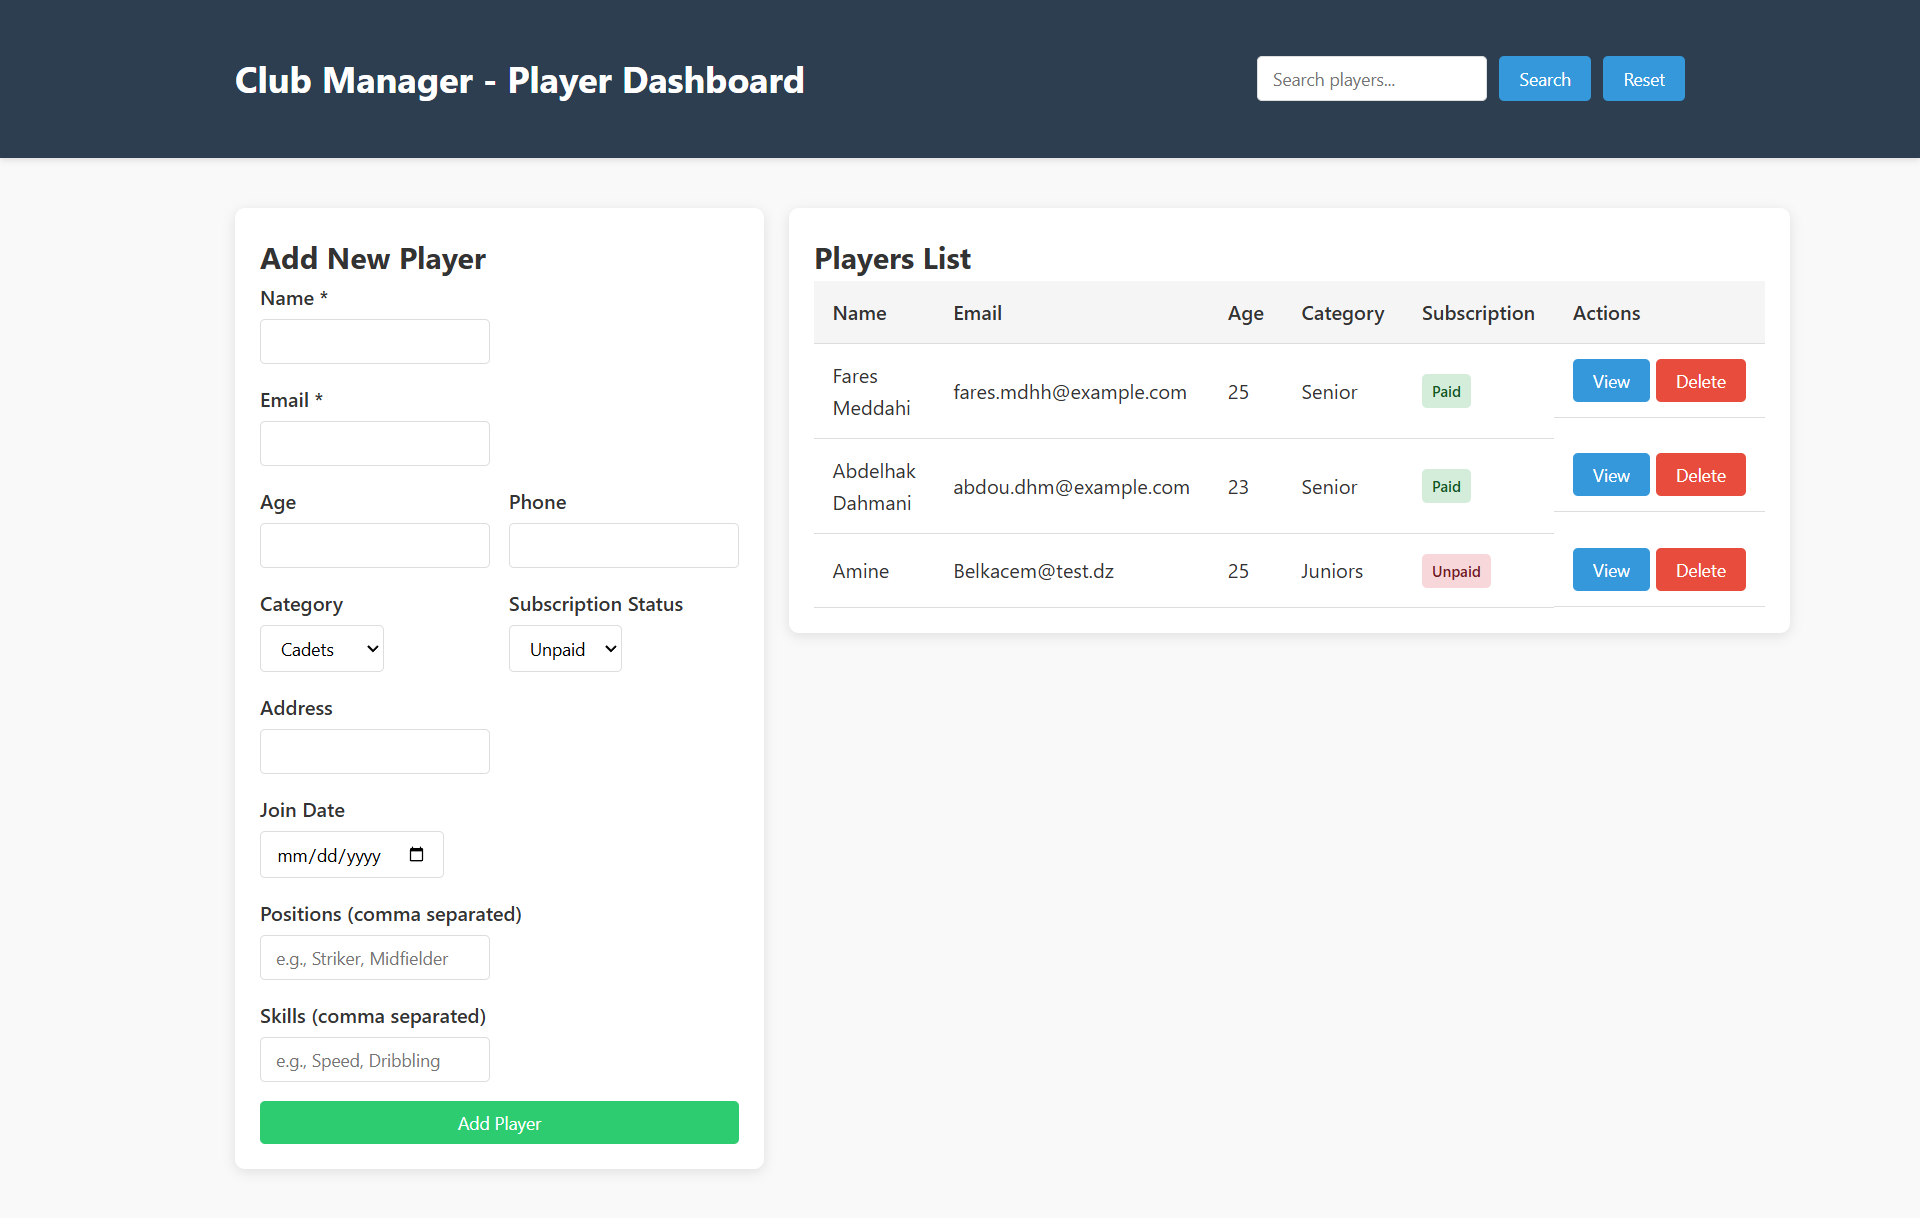
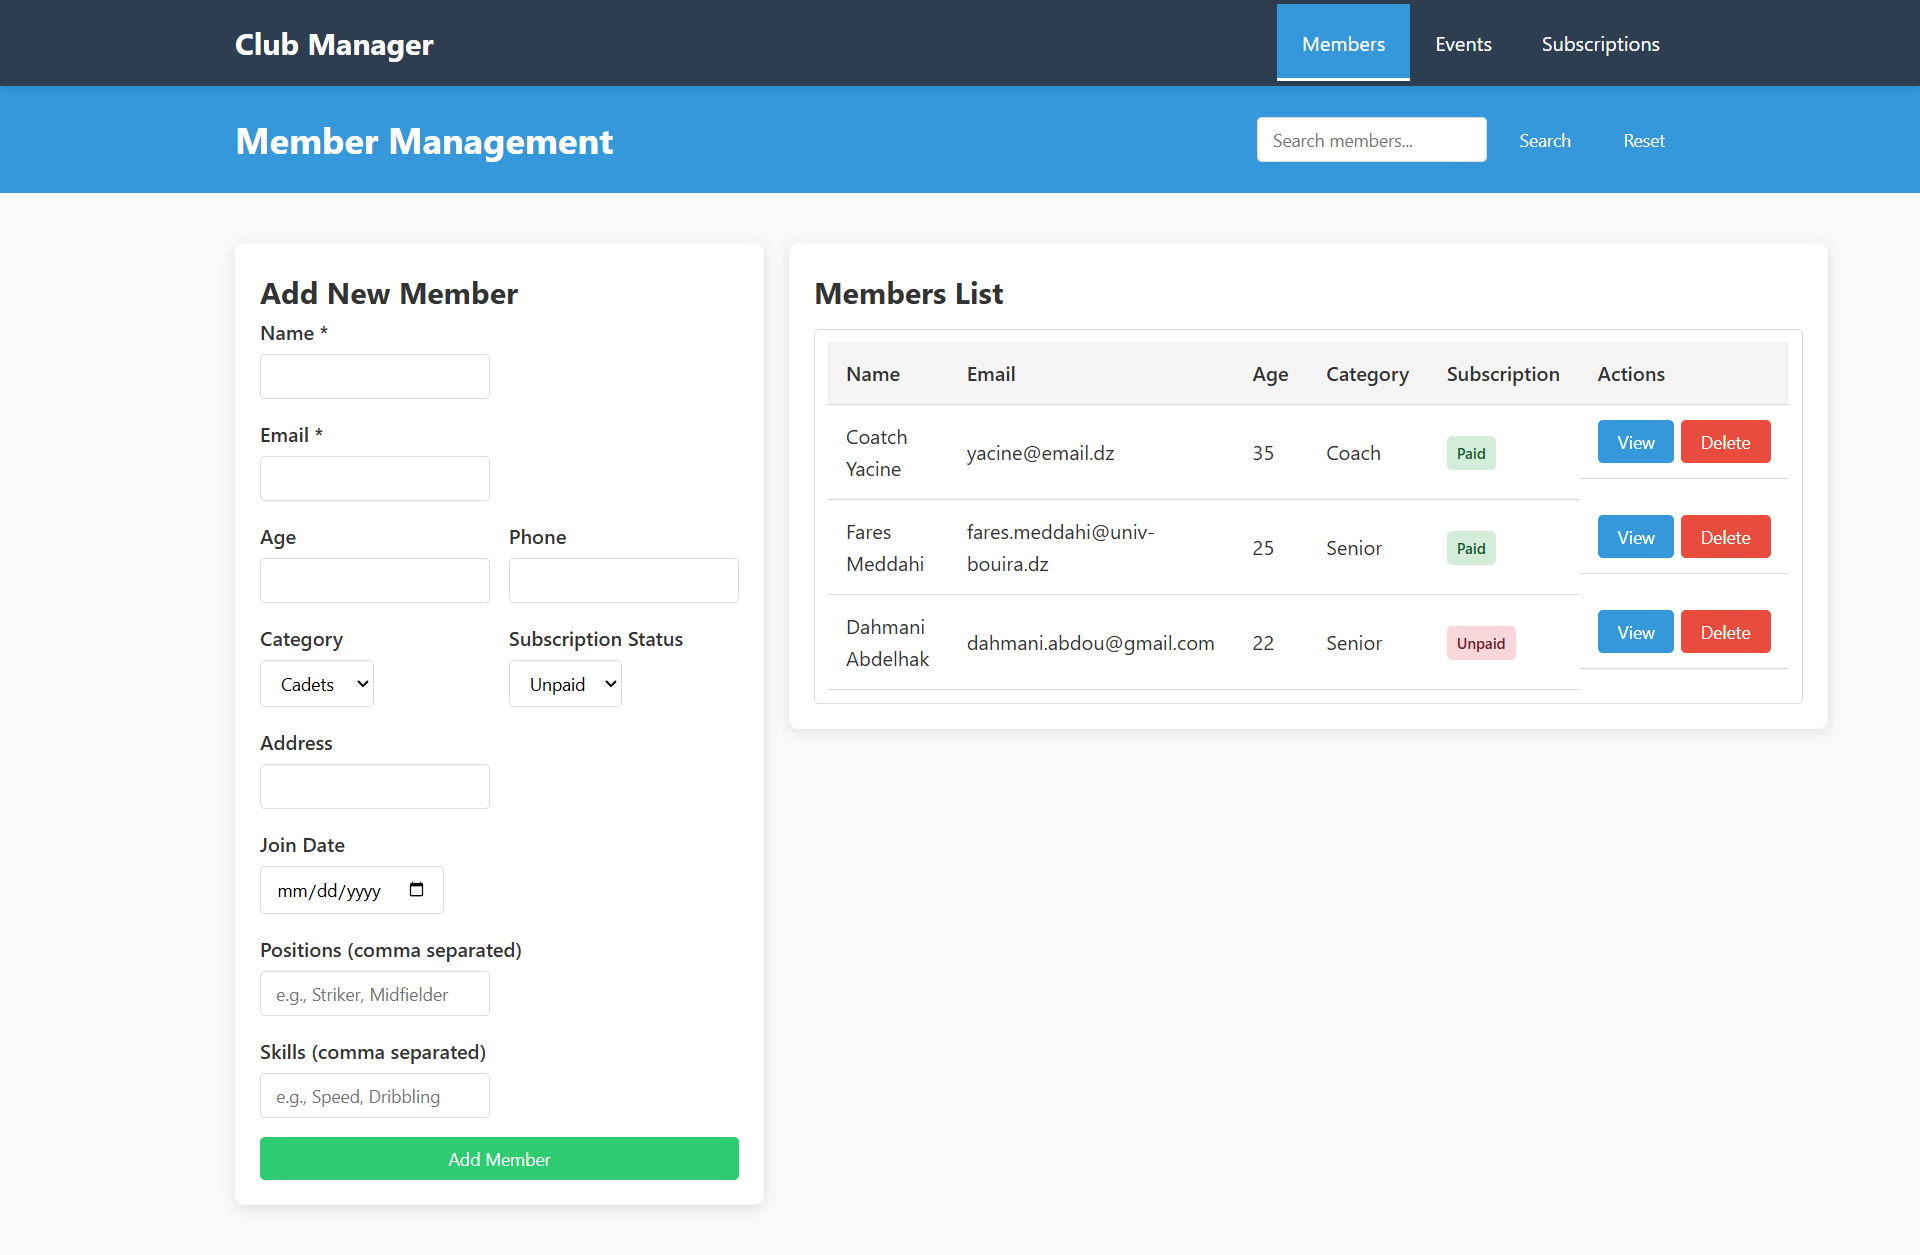
Finishing README.md

diff --git a/views/style.css b/views/style.css
@@ -308,7 +308,6 @@ tr:hover {
 }
 
 .player-list, .player-details-list {
-    max-height: 200px;
     overflow-y: auto;
     border: 1px solid var(--border-color);
     border-radius: 4px;

diff --git a/README.md b/README.md
@@ -2,7 +2,20 @@
 
 This project is a **Football Club Management System** built using the **MVC (Model-View-Controller)** architecture. It provides a REST API for managing players only **(for now)** and allows interaction through a simple HTML dashboard.
 
+## Dashboard
+The dashboard is now separated into 03 HTML files and one CSS style file :
+* `views/style.css` - defining dashboard style
+* `views/members.html` – for members management
+
 <img src="views/img.png"/>
+
+* `views/events.html` – for events management
+
+<img src="views/img2.png"/>
+
+* `views/subscriptions.html` – for subscriptions management
+
+<img src="views/img3.png"/>
 
 
 ---
